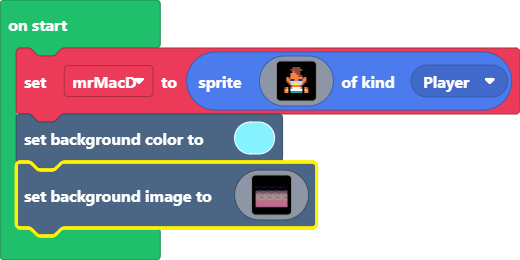
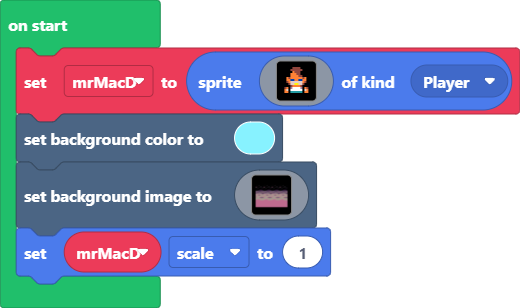
added setScale -> 1

diff --git a/main.ts b/main.ts
@@ -1,3 +1,4 @@
 let mrMacD = sprites.create(assets.image`MrMacD`, SpriteKind.Player)
 scene.setBackgroundColor(9)
 scene.setBackgroundImage(assets.image`moonBase`)
+mrMacD.scale = 1
